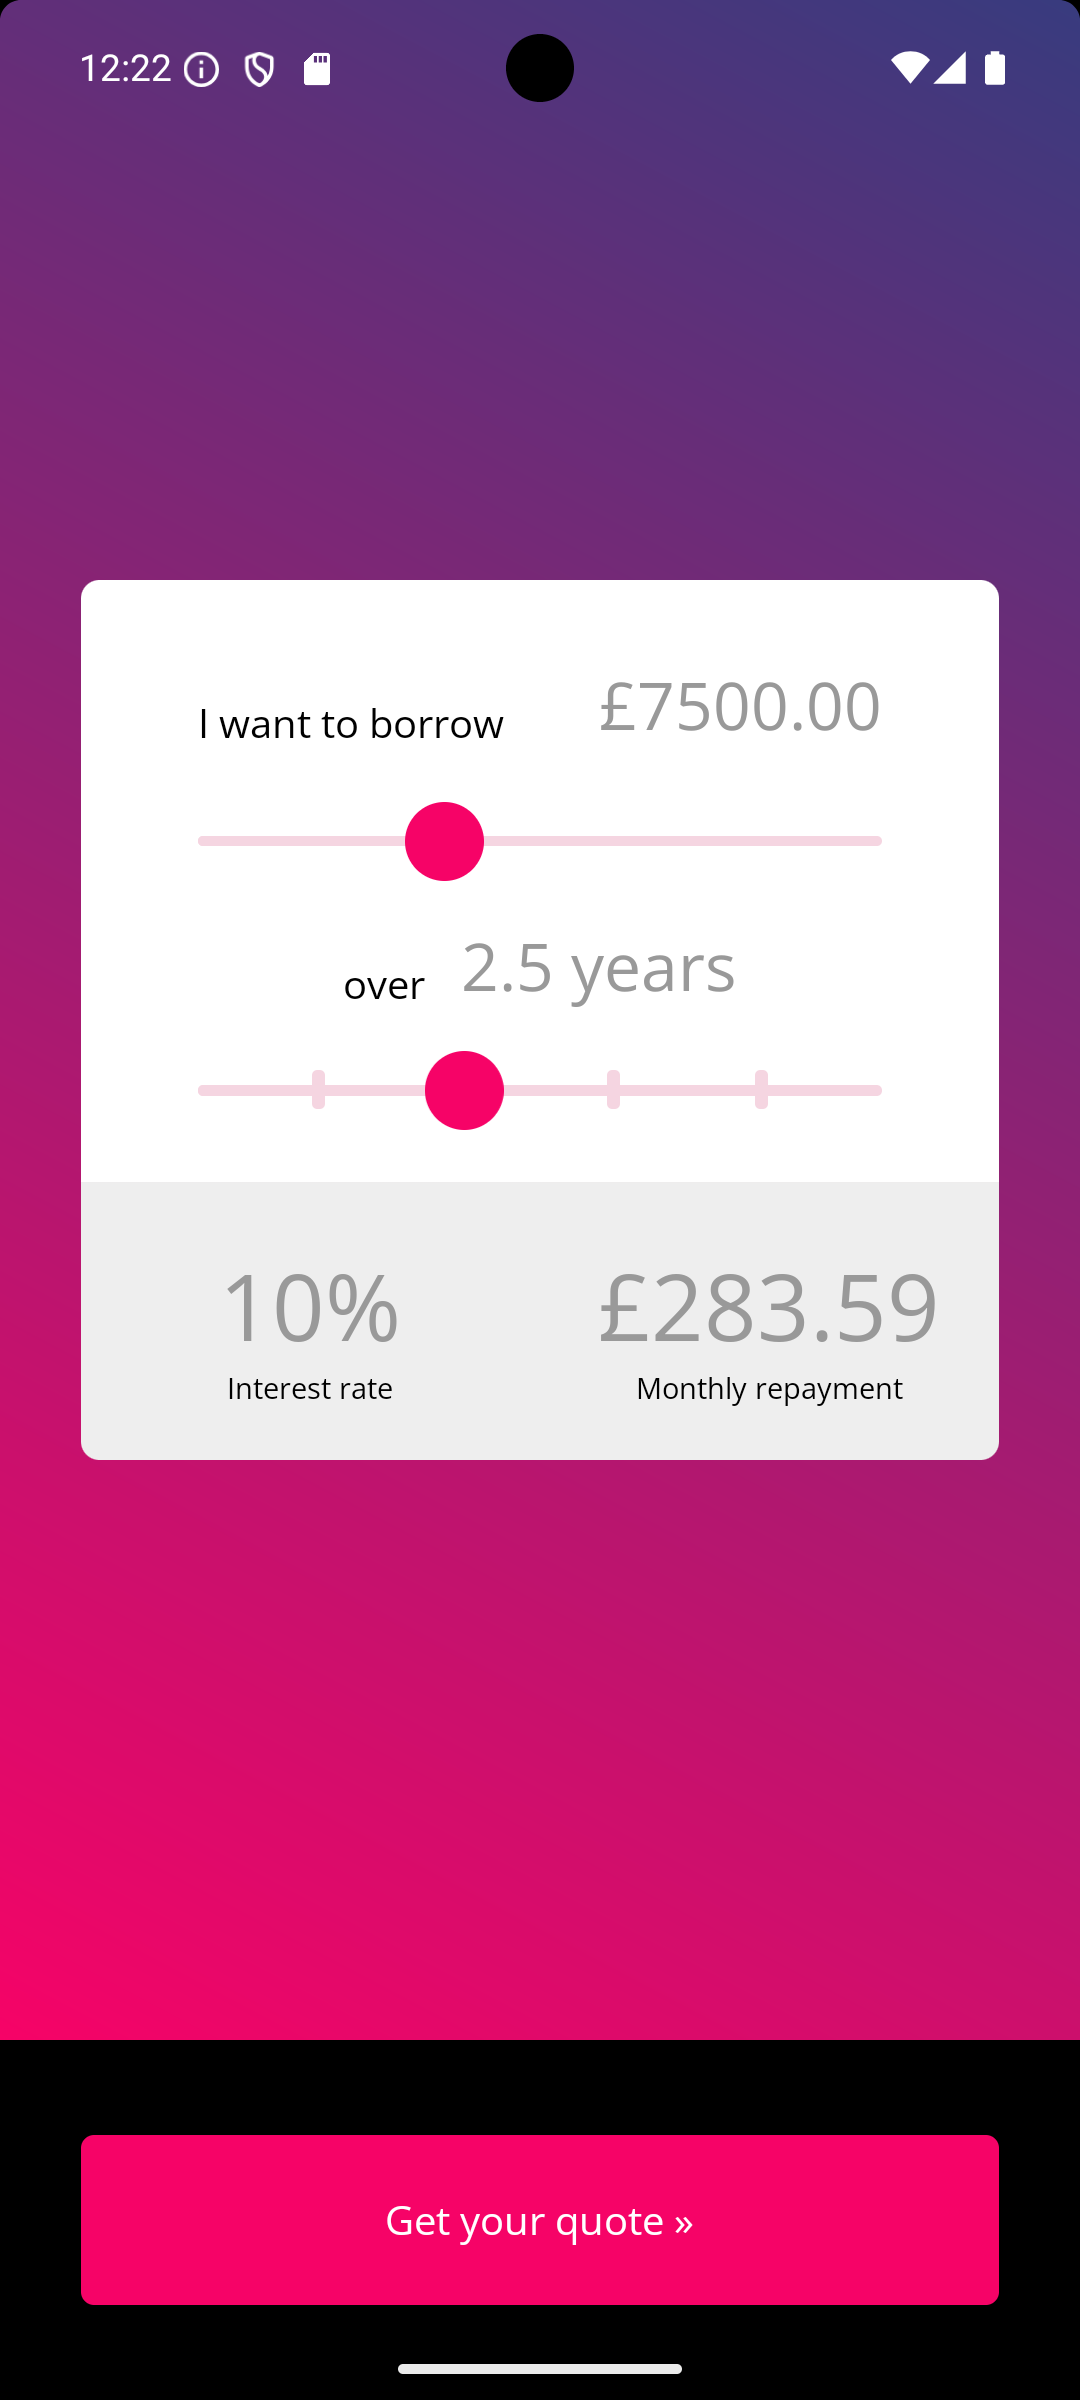
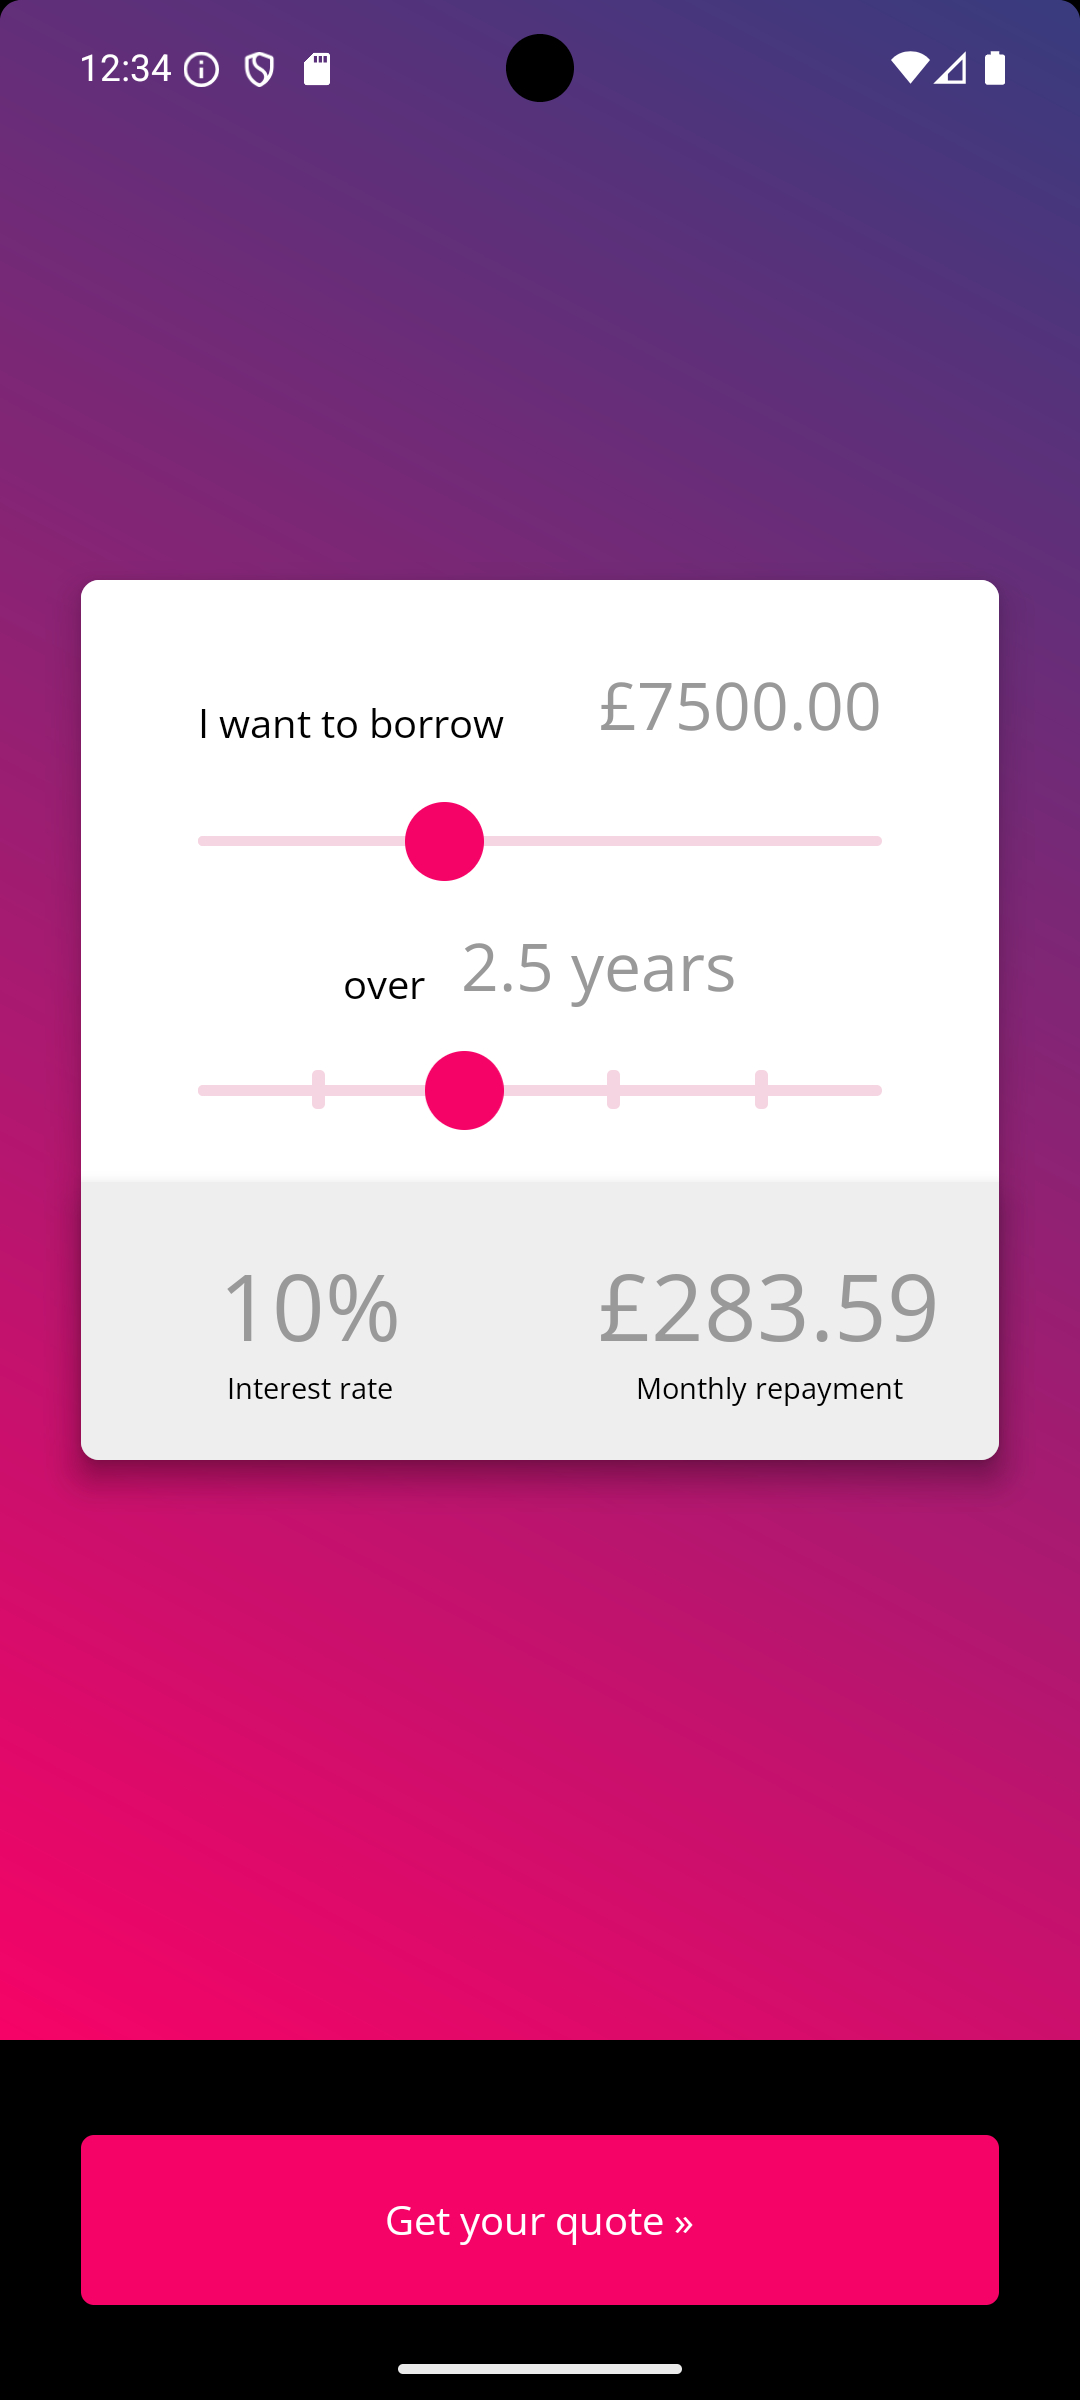
fix shadow on android and remove warning

Changed region(s): [[0.0611, 0.5, 0.9472, 0.625], [0.1222, 0.0, 0.1528, 0.0312]]

diff --git a/src/styles/theme.js b/src/styles/theme.js
@@ -27,11 +27,16 @@ export const commonStyles = StyleSheet.create({
   card: {
     width: LAYOUT.CARD_WIDTH,
     alignItems: 'center',
+    // iOS shadow
     shadowColor: COLORS.BLACK,
     shadowOpacity: 0.25,
     shadowOffset: { width: 0, height: 3 },
     shadowRadius: 6,
-    elevation: 4,
+    // Android shadow
+    elevation: 8,
+    backgroundColor: COLORS.WHITE, // Required for Android elevation
+    borderRadius:7,
+   
   },
   cardContent: {
     backgroundColor: COLORS.WHITE,
@@ -112,6 +117,8 @@ export const resultBoxStyles = StyleSheet.create({
     borderBottomLeftRadius: 7,
     borderBottomRightRadius: 7,
     overflow: 'hidden',
+    // Android shadow
+    elevation: 8,
   },
   resultItem: {
     flex: 1,

diff --git a/index.js b/index.js
@@ -6,4 +6,20 @@ import { AppRegistry } from 'react-native';
 import App from './App';
 import { name as appName } from './app.json';
 
+// Suppress deprecation warnings from react-native-sliders library
+// The library uses componentWillMount which is deprecated but still functional
+const originalWarn = console.warn;
+console.warn = (...args) => {
+  const warningMessage = args[0];
+  if (
+    typeof warningMessage === 'string' &&
+    (warningMessage.includes('componentWillMount') ||
+      warningMessage.includes('componentWillReceiveProps') ||
+      warningMessage.includes('unsafe-component-lifecycles'))
+  ) {
+    return;
+  }
+  originalWarn(...args);
+};
+
 AppRegistry.registerComponent(appName, () => App);
